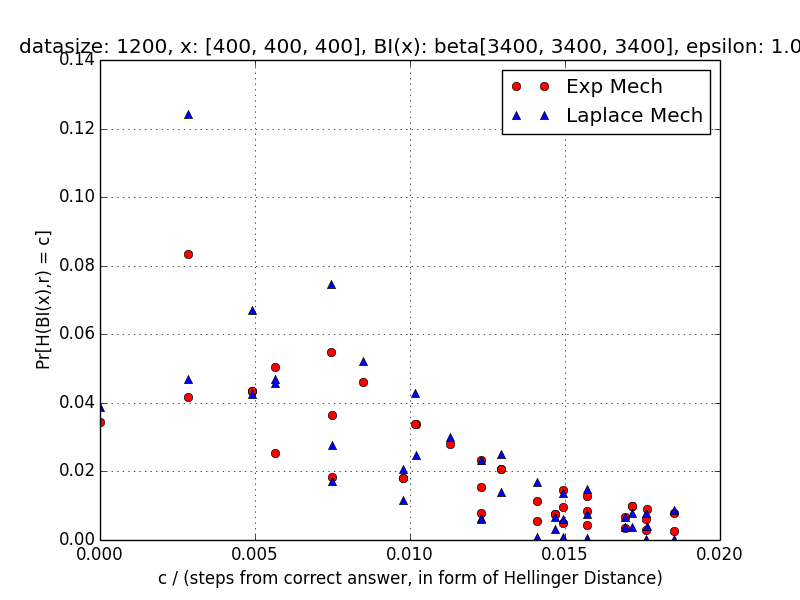
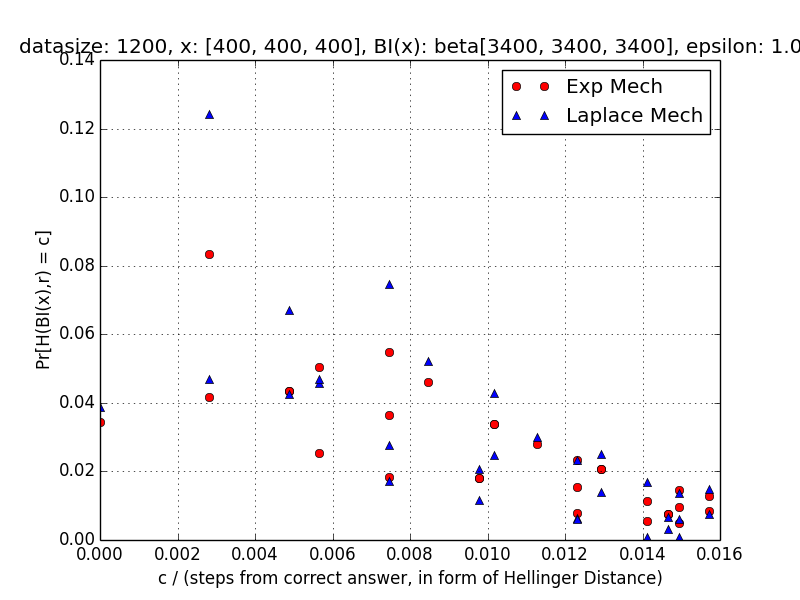
update plots

diff --git a/main.py b/main.py
@@ -114,7 +114,7 @@ def accuracy_study_discrete(sample_size,epsilon,delta,prior,observation):
 		# ylist = []
 		for j in range(len(r._alphas) - 1):
 			a = r._alphas[j] - Bayesian_Model._posterior._alphas[j]
-			t = t * 0.5 * (math.exp(- ((abs(a)) if (a >= 0) else (abs(a) - 1)) / (1.0/epsilon)) - math.exp(- ((abs(a) + 1) if (a >= 0) else (abs(a))) / (1.0/epsilon)))
+			t = t * 0.5 * (math.exp(- ((abs(a)) if (a >= 0) else (abs(a) - 1)) / (2.0/epsilon)) - math.exp(- ((abs(a) + 1) if (a >= 0) else (abs(a))) / (2.0/epsilon)))
 		# 	ylist.append(a)
 		# yset = set(ylist)
 		laplace_probabilities[r] = t #/ (math.gamma(len(yset)) * (2 ** (len(list(filter(lambda a: a != 0, ylist))))))
@@ -521,11 +521,11 @@ def gen_datasizes(r, step):
 
 if __name__ == "__main__":
 
-	datasize = 1000000
+	datasize = 1200
 	epsilon = 1.0
 	delta = 0.00000001
-	prior = dirichlet([1,1])
-	observation = [500000, 500000]
+	prior = dirichlet([3000,3000,3000])
+	observation = [400,400,400]
 	epsilons = numpy.arange(0.1, 2, 0.1)
 	datasizes = gen_datasizes((7000,10000),1000)#[300] #[8,12,18,24,30,36,42,44,46,48]#,50,52,54,56,58,60,62,64,66,68,70,72,74,76,78,80]
 	percentage = [0.3,0.3,0.4]
